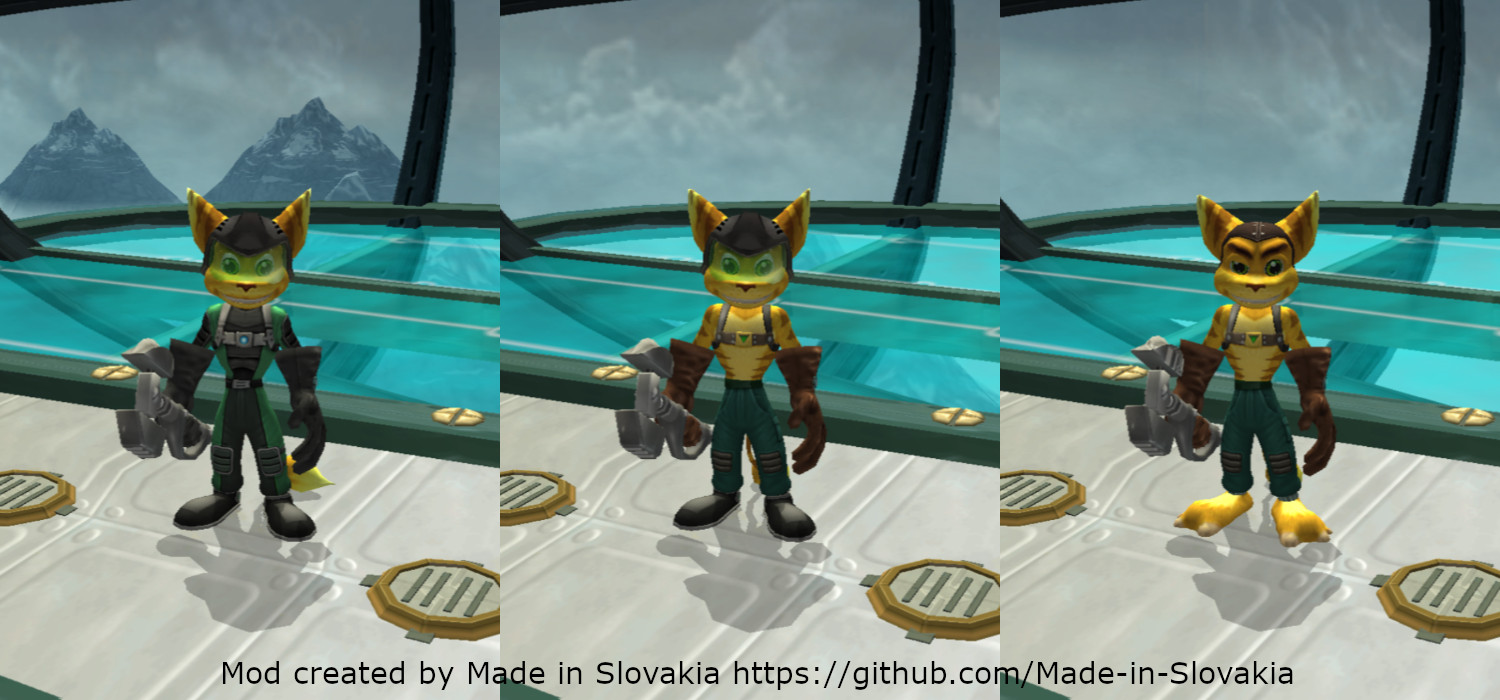
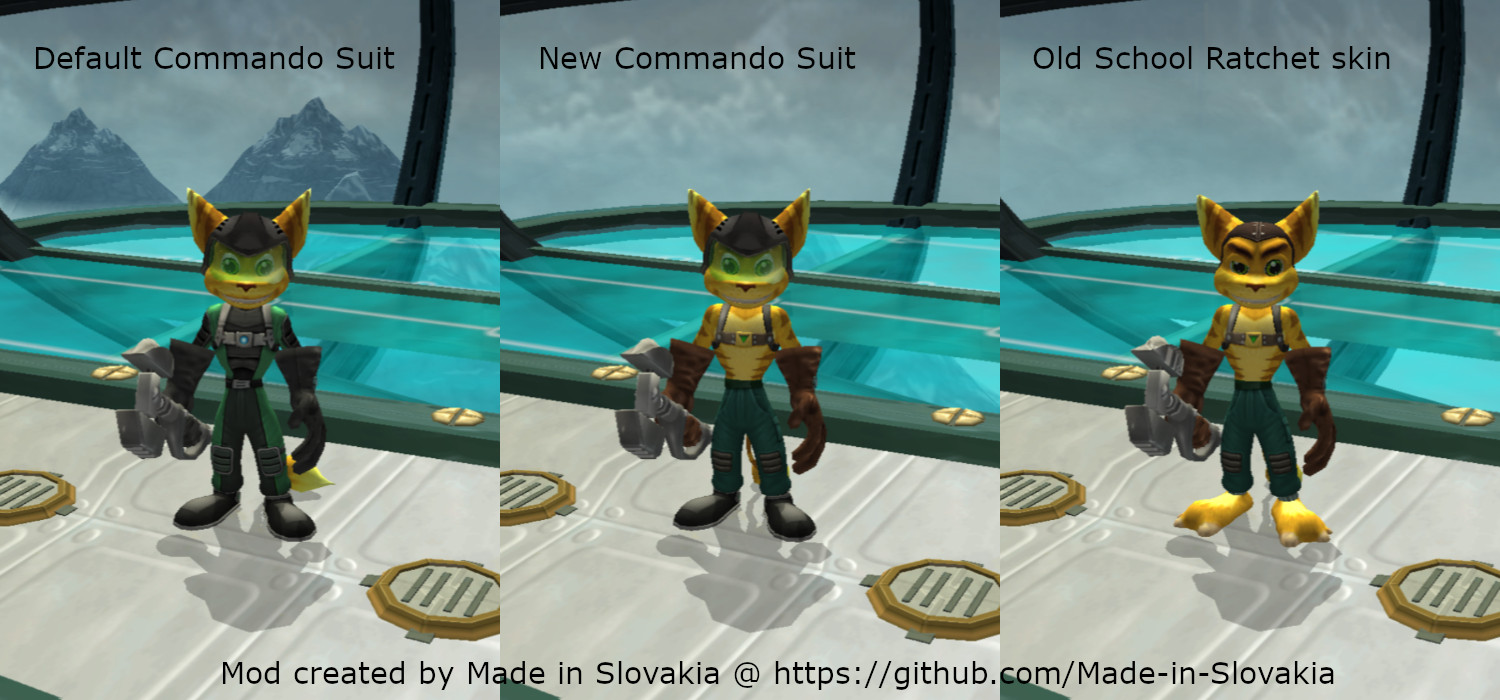
Add new mod 'Old School Ratchet - Reloaded'

diff --git a/PCSX2/README.md b/PCSX2/README.md
@@ -41,3 +41,9 @@ Mod replaces `Commando Suit` and `Snow Dude` (a.k.a. Snowman) skin (avaiable in 
 Installation: In addition to `pnach` file, download files in `textures` folder and save them to the folder `pcsx2\textures` in your user `Documents` folder. It schould be already created by PCSX2. Then enable PCSX2 feature `Texture replacement` for Ratchet & Clank 2 game.
 
 ![Enable texture replacement for a specific game](resources/menu-2.jpg "Enable texture replacement for a specific game")
+
+#### Old School Ratchet - Reloaded
+
+Updated version of `Old School Ratchet` mod where equiped boots (gadgets) and O2 mask are shown when they are equipped or used.
+
+![Old School Ratchet - Reloaded](resources/screenshot-2.jpg "Old School Ratchet - Reloaded")
